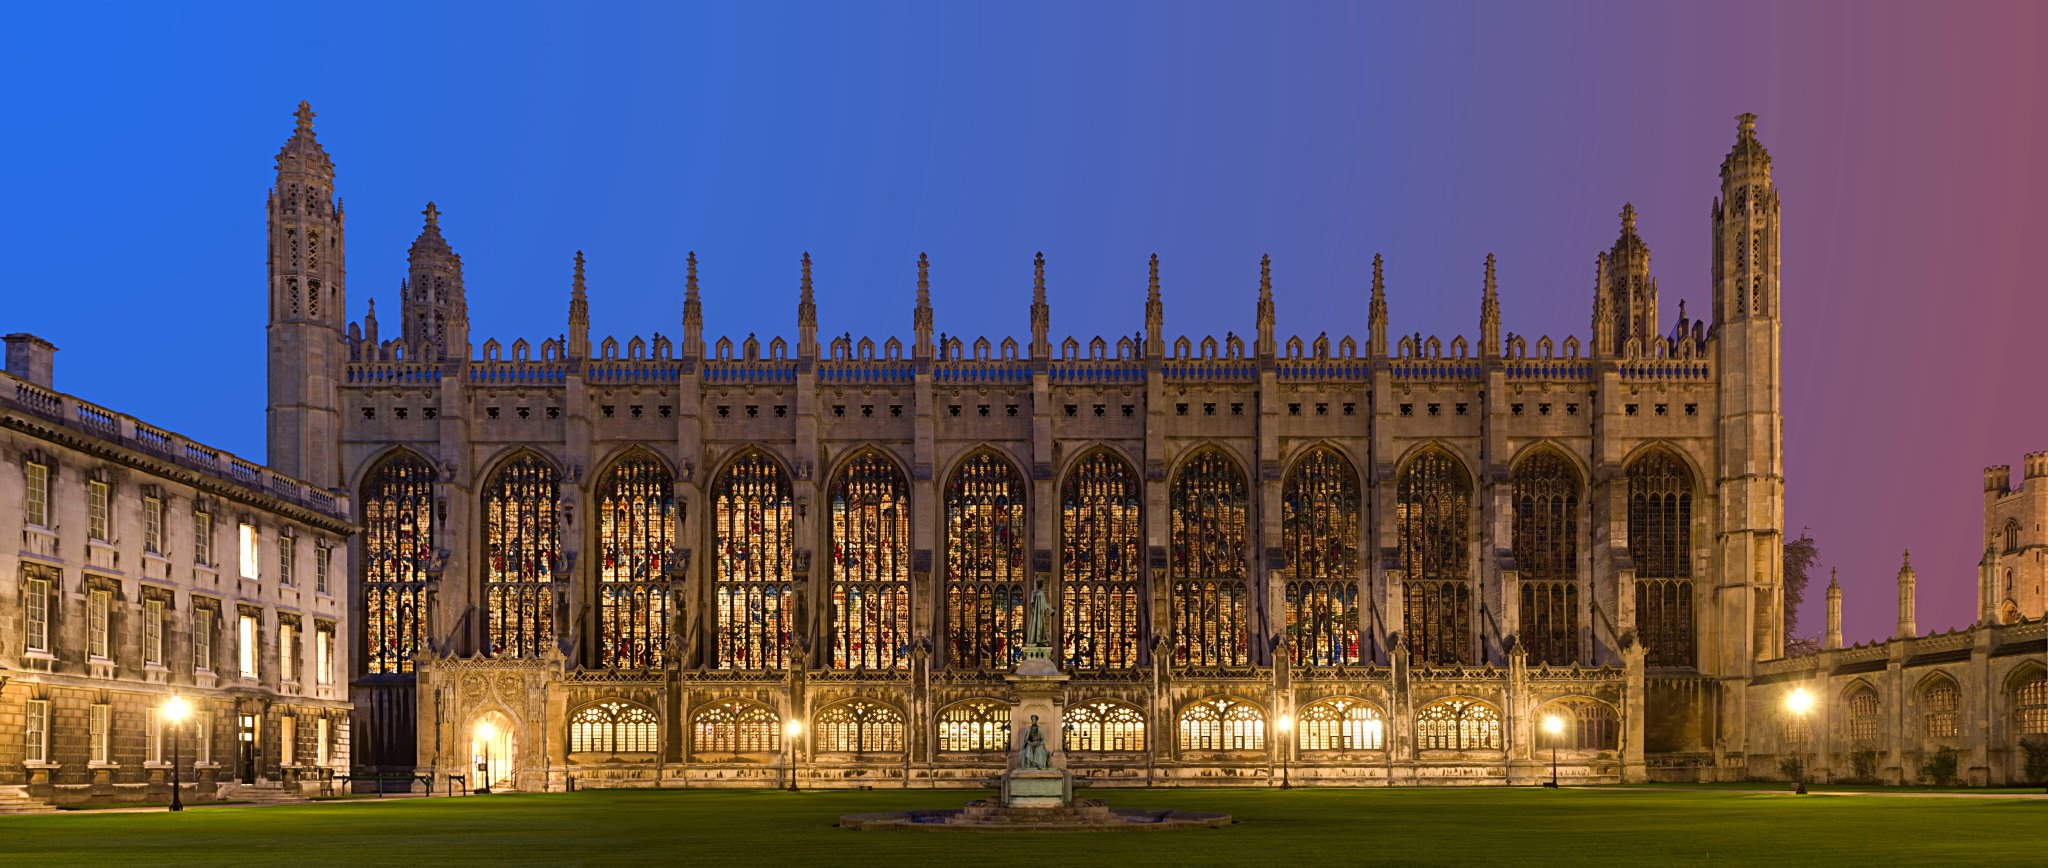
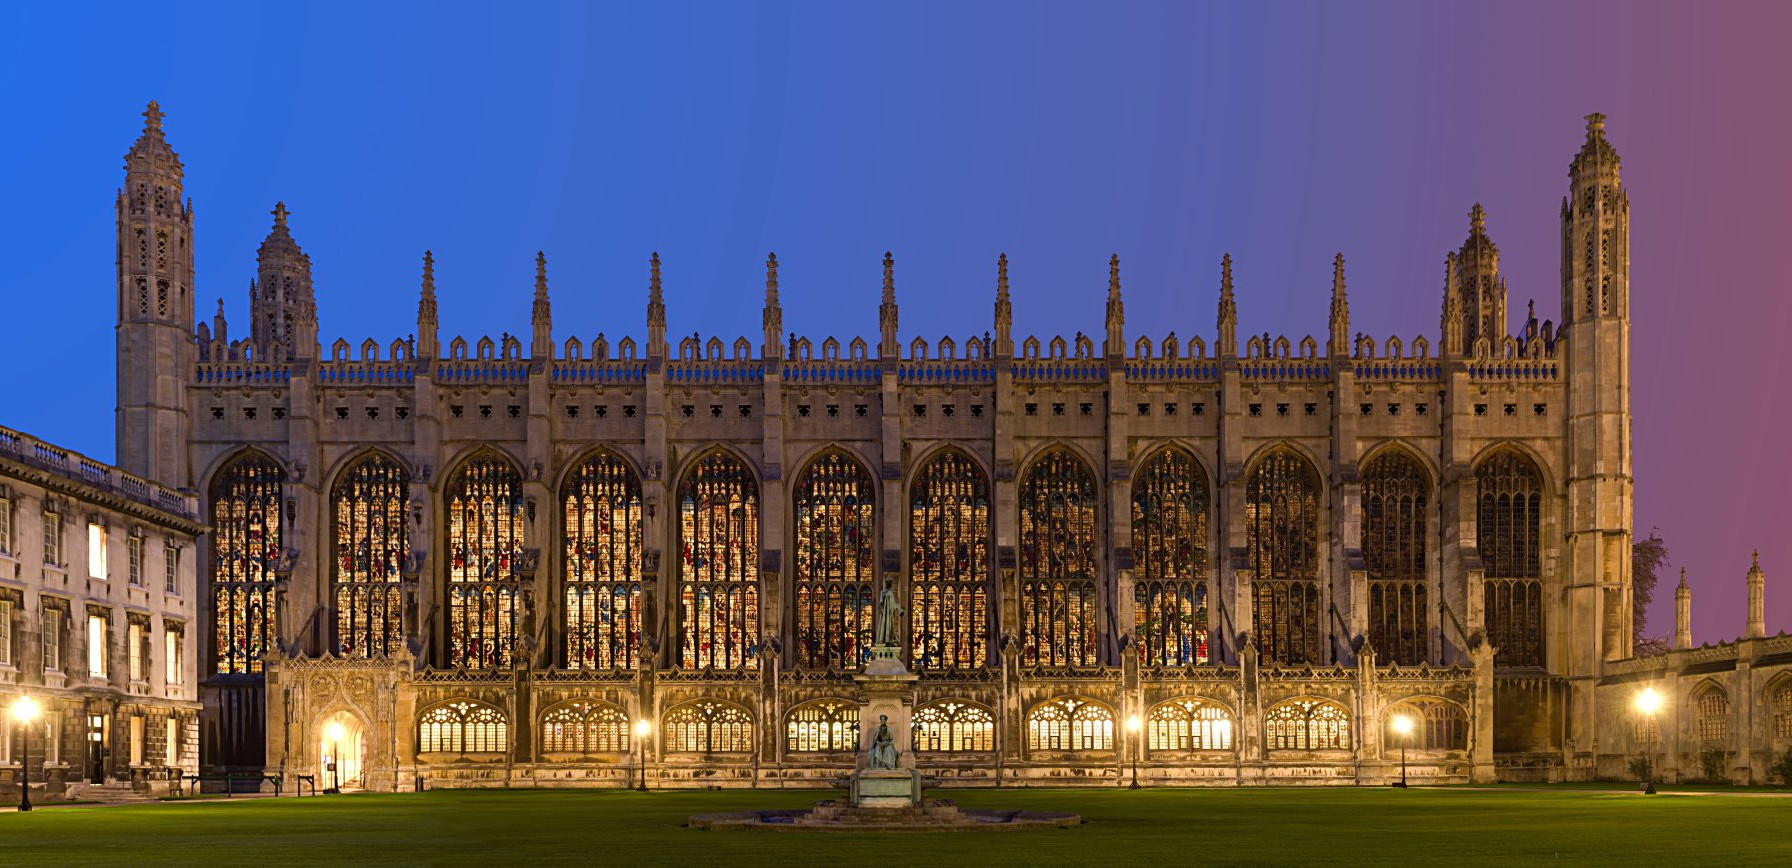
King's college

diff --git a/index.html b/index.html
@@ -72,12 +72,12 @@
               </section>
 
               <!-- King's College Cambridge -->
-              <section data-background="images/kings.jpg" data-background-size="120%">
+              <section data-background="images/kings.jpg" data-background-size="100%">
               </section>
 
               <!-- Numerical methods -->
               <section>
-                <h3>Cambridge-Berkeley computational geomechanics</h3>
+                <h3>Cambridge-Berkeley Computational Geomechanics</h3>
                 <ul>
                   <li> Lattice-Boltzmann + Discrete Element Method </li>
                   <li> Finite Element Method - Thermo-Hydro Mechanical Coupling</li>
